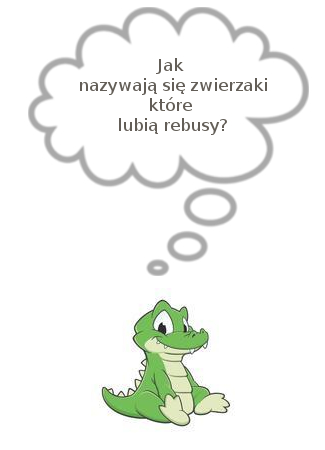
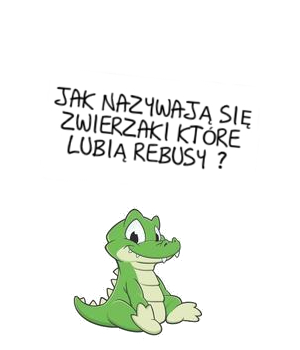
[TEMP] Front page graphics changed

Changed region(s): [[0.09, 0.0, 0.96, 0.9714]]

diff --git a/public/app/app.js b/public/app/app.js
@@ -1,25 +1,31 @@
 'use strict';
 
-angular.module('phonecatApp').
-    config(['$locationProvider', '$routeProvider',
-        function config($routeProvider) {
-            $routeProvider.
-                when('/phones', {
-                    template: '<phone-list></phone-list>'
-                }).
-                when('/phones/:phoneId', {
-                    template: '<phone-detail></phone-detail>'
-                }).
-                otherwise('/phones');
-        }
-    ]);
+var mainApp = angular.module('phonecatApp', []);
 
-angular.module('phonecatApp', []).controller('MainController', function ($scope) {
-    $scope.controllerOwner = {
-        imie: 'Lukasz',
-        nazwisko: 'Magierski'
-    };
-
+mainApp.controller('MainController', function ($scope) {
+    $scope.controllerOwner = 'Lukasz';
 });
+
+//     .
+//     config(['$locationProvider', '$routeProvider',
+//         function config($routeProvider) {
+//             $routeProvider.
+//                 when('/phones', {
+//                     template: '<phone-list></phone-list>'
+//                 }).
+//                 when('/phones/:phoneId', {
+//                     template: '<phone-detail></phone-detail>'
+//                 }).
+//                 otherwise('/phones');
+//         }
+//     ]);
+//
+// angular.module('phonecatApp', []).controller('MainController', function ($scope) {
+//     $scope.controllerOwner = {
+//         imie: 'Lukasz',
+//         nazwisko: 'Magierski'
+//     };
+//
+// });
 
 

diff --git a/public/index.html b/public/index.html
@@ -49,11 +49,12 @@
 
     <!-- Page Content -->
     <div class="container">
-        <div class="row" ng-show="false">
+        <div class="row" ng-show="true">
             <div class="col-md-12 text-center">
                 <img src="images/krokodyl_napis.jpg"/>
             </div>
         </div>
+        <br/>
         <div class="row">
             <div class="col-md-12 text-center">
                 <a href="/auth/loginGoogle" class="btn btn-lg">
@@ -70,10 +71,10 @@
                 <!--</a>-->
             <!--</div>-->
         <!--</div>-->
-        <div ng-controller="MainController">
-            <b>Owner:</b><br>
-            <owner-detail owner="controllerOwner"></owner-detail>
-        </div>
+        <!--<div ng-controller="MainController">-->
+            <!--<b>Owner:</b><br>-->
+            <!--<owner-detail owner="controllerOwner"></owner-detail>-->
+        <!--</div>-->
 
     </div>
     <!-- /.container -->

diff --git a/public/app/ownerDetails.html b/public/app/ownerDetails.html
@@ -1,4 +1,4 @@
-<span>Owner name: {{$ctrl.owner.imie}}</span>
+<span>Owner name: {{$ctrl.owner}}</span>
 <br/>
 <br/>
 
